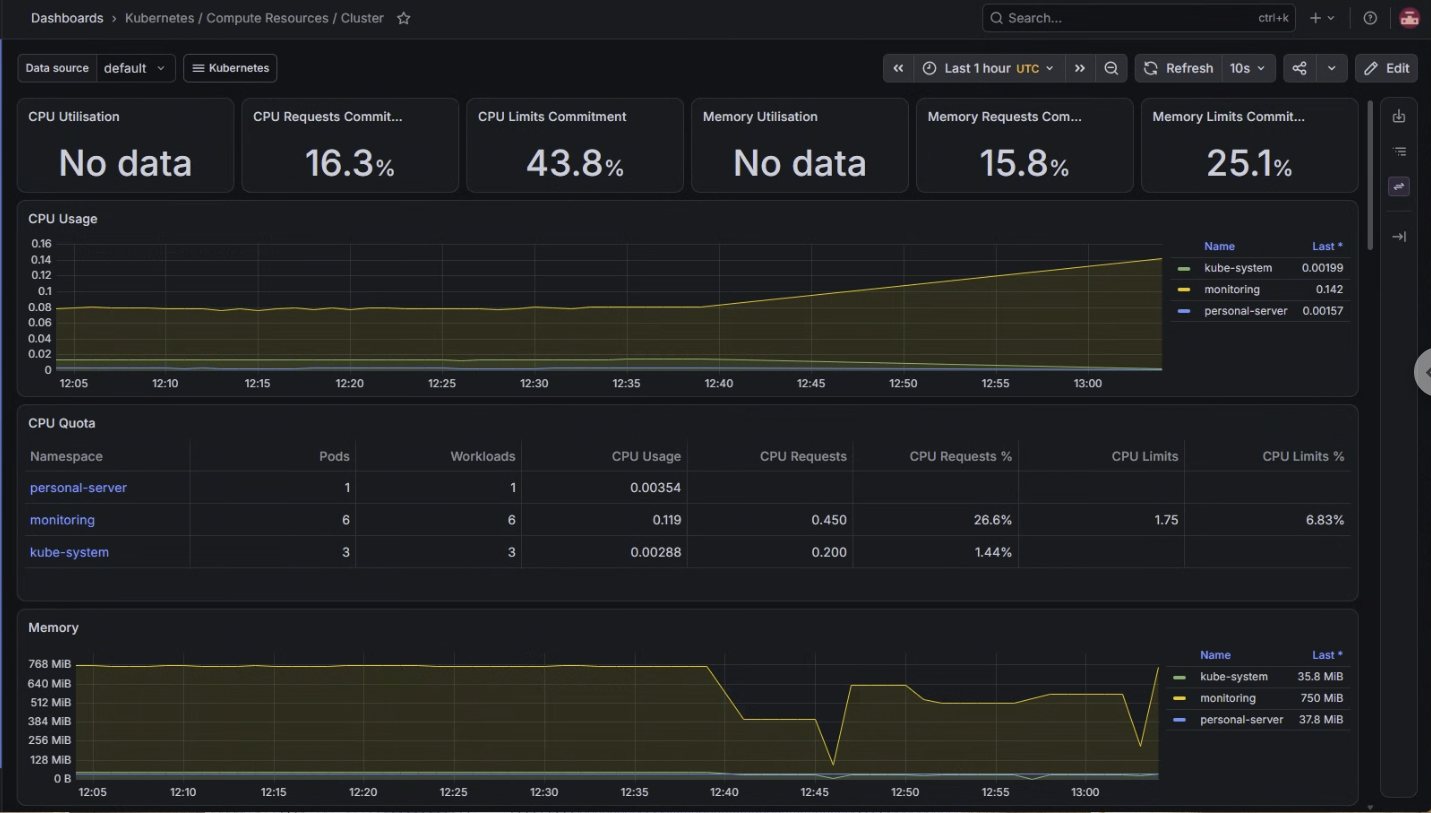
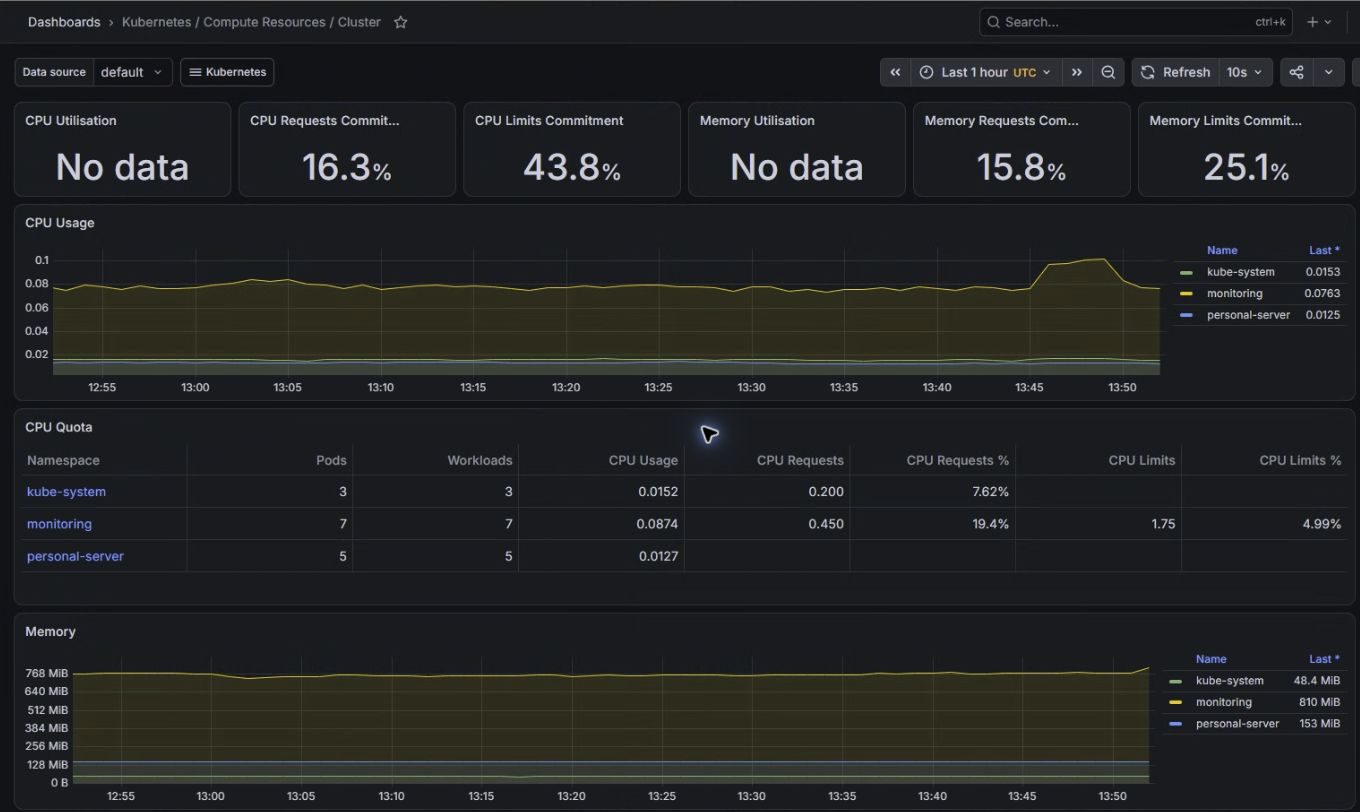
docs: N100 Grafana 실제 대시보드 재촬영

diff --git a/docs/images/README.md b/docs/images/README.md
@@ -6,11 +6,11 @@
 |---|---|---|
 | 확인일 | 2026-09-21 | |
 | 대상 | PNG 스크린샷 8개, SVG 구조도 1개 | Git 추적 이미지 전체 |
-| 기준 자료 | 이미지 원본·현재 템플릿·배포 검증 결과 | 공개 웹 화면 5개·관리자 1개는 2026-09-21 재촬영 |
+| 기준 자료 | 이미지 원본·현재 템플릿·배포 검증 결과 | 공개 웹 화면 5개·관리자·Grafana는 2026-09-21 재촬영 |
 
 ## 핵심 요약
 
-이미지 파일 누락·PNG 데이터 손상은 발견되지 않음. 공개 웹 화면 5개를 실제 Chrome에서 재촬영함. 관리자도 로그인 후 자동복구·HomeOps·보안 정책 구간을 재촬영함. 차량 Telegram·Grafana는 과거 예시를 유지함. 새 화면도 촬영 이후의 상태나 배포 버전을 증명하지 않음. 구조도는 현재 공개 경로와 실행 주체를 설명하며, upstream을 조회하는 주체를 배포 스크립트로 보완함.
+이미지 파일 누락·PNG 데이터 손상은 발견되지 않음. 공개 웹 화면 5개를 실제 Chrome에서 재촬영함. 관리자도 로그인 후 자동복구·HomeOps·보안 정책 구간을 재촬영함. Grafana도 N100 원격화면에서 재촬영함. 차량 Telegram은 과거 예시를 유지함. 새 화면도 촬영 이후의 상태나 배포 버전을 증명하지 않음. 구조도는 현재 공개 경로와 실행 주체를 설명하며, upstream을 조회하는 주체를 배포 스크립트로 보완함.
 
 ## 전체 이미지 상세
 
@@ -23,23 +23,23 @@
 | [YouTube](youtube-memo.png) | 영상 등록·저장 목록 | 2026-09-21 실제 서비스 전체 페이지 촬영 | 영상 등록·메모 저장·삭제 미수행 |
 | [관리자](admin-status.png) | 서버 상태·자동복구 이력 10건·HomeOps·보안 정책 | 2026-09-21 실제 화면 1705×2525 촬영 | IP가 표시된 하단 보안 이벤트 목록 제외, 진단·재시작 버튼 미실행 |
 | [차량 Telegram](car-care-telegram-status.png) | 차량 상태·운행 알림 예시 | 9차 중복 처리 방지는 정적 이미지로 검증할 수 없음 | 메시지·계기 값은 과거 예시 |
-| [Grafana](grafana-k3s-overview.png) | 클러스터 자원 대시보드 예시 | No data와 과거 Pod 수가 있어 최신 화면 재촬영 필요 | HTTP 전용 대시보드·현재 지표 정상 증거가 아님 |
+| [Grafana](grafana-k3s-overview.png) | Kubernetes / Compute Resources / Cluster 상단·CPU·메모리 그래프 | 2026-09-21 N100 원격화면 1360×812 촬영 | 사용률 패널 2개 No data 유지, 주소창·개인 북마크 제외, 전체 페이지 아님 |
 | [운영 구조도](personal-server-architecture-v2.svg) | Tunnel → Caddy → K3s, 서비스별 PVC, Compose 보조 구성 | 코드·현재 운영 참조와 대조함 | 배포 스크립트의 upstream 조회 역할을 보완함 |
 
 ## 검토 결과
 
 - PNG 8개를 직접 열어 확인하고 전체 chunk CRC·압축 데이터 해제를 검증함.
 - SVG는 XML 구조·참조를 점검하고 렌더링 결과를 확인함.
-- 재촬영한 5개 화면은 브라우저가 반환한 JPEG 원본을 PNG 형식으로 변환해 기존 경로에 저장함. 페이지 내용·수치·픽셀 합성·보정은 수행하지 않음. 이전 이미지는 Git 이력에 보존됨.
-- 재촬영 파일 5개를 직접 열어 배치·가독성을 확인함. 문서 색인 27건과 `git diff --check`를 통과함. 재촬영 PNG 5개의 형식·CRC·압축 데이터 해제를 검증함.
+- 재촬영한 7개 화면은 브라우저가 반환한 JPEG 원본을 PNG 형식으로 변환해 기존 경로에 저장함. 페이지 내용·수치·픽셀 합성·보정은 수행하지 않음. 이전 이미지는 Git 이력에 보존됨.
+- 재촬영 파일 7개를 직접 열어 배치·가독성을 확인함. 문서 색인 27건과 `git diff --check`를 통과함. 재촬영 PNG 7개의 형식·CRC·압축 데이터 해제를 검증함.
 - 최신 코드 반영과 운영 이미지 적용은 [배포 검증 결과](../reviews/20260921_K3s앱배포_검증결과.md)를 사용함.
 
 ## 확인 필요 사항
 
-관리자 재촬영은 완료함. 화면의 파일함 0개·과거 HomeOps 결과·업로드 제한 25MB는 실제 표시를 그대로 보존했으며, 표시 내용과 실제 운영 구성의 정합성은 별도 확인 필요함. Grafana는 N100 내부 전용이므로 접근 가능한 로그인 페이지가 필요함. 차량 Telegram은 기존 이미지를 유지하며 이번 웹 촬영에 포함하지 않음. 인증된 관리자·Grafana 화면은 비밀값·개인 정보 노출 여부를 확인한 실제 화면만 사용하며, 테스트 통과나 이미지를 근거로 현재 운영 수치를 만들어 넣지 않음.
+관리자 재촬영은 완료함. 화면의 파일함 0개·과거 HomeOps 결과·업로드 제한 25MB는 실제 표시를 그대로 보존했으며, 표시 내용과 실제 운영 구성의 정합성은 별도 확인 필요함. Grafana 사용률 패널 2개의 No data 원인은 별도 확인 필요함. 네임스페이스별 그래프가 표시된 사실만으로 모든 지표의 정상을 확정하지 않음. 차량 Telegram은 기존 이미지를 유지하며 이번 웹 촬영에 포함하지 않음. 인증된 관리자·Grafana 화면은 비밀값·개인 정보 노출 여부를 확인한 실제 화면만 사용하며, 테스트 통과나 이미지를 근거로 현재 운영 수치를 만들어 넣지 않음.
 
 ## 후속 조치
 
-README는 재촬영 6개와 기존 화면 2개를 구분함. Grafana 화면 준비 후 해당 화면과 이 목록을 함께 갱신함. 기능 영향 없는 문서·이미지 교체로 주 담당 1명이 수행함. 문서 변경만으로 운영 서비스나 공개 포트폴리오 저장 데이터가 자동 갱신되는 것은 아님.
+README는 재촬영 7개와 기존 화면 1개를 구분함. 관리자 표시 정합성과 Grafana No data 원인은 별도 점검 대상으로 남김. 기능 영향 없는 문서·이미지 교체로 주 담당 1명이 수행함. 문서 변경만으로 운영 서비스나 공개 포트폴리오 저장 데이터가 자동 갱신되는 것은 아님.
 
 관리자 추가 촬영 검증: 상단부터 보안 정책까지 시각 확인했으며 내부 IP를 포함한 로그 목록은 저장하지 않음. 이미지 생성·합성·운영 수치 보정은 수행하지 않음. 전체 페이지 대신 사용자가 허용한 주요 구간을 촬영함.
